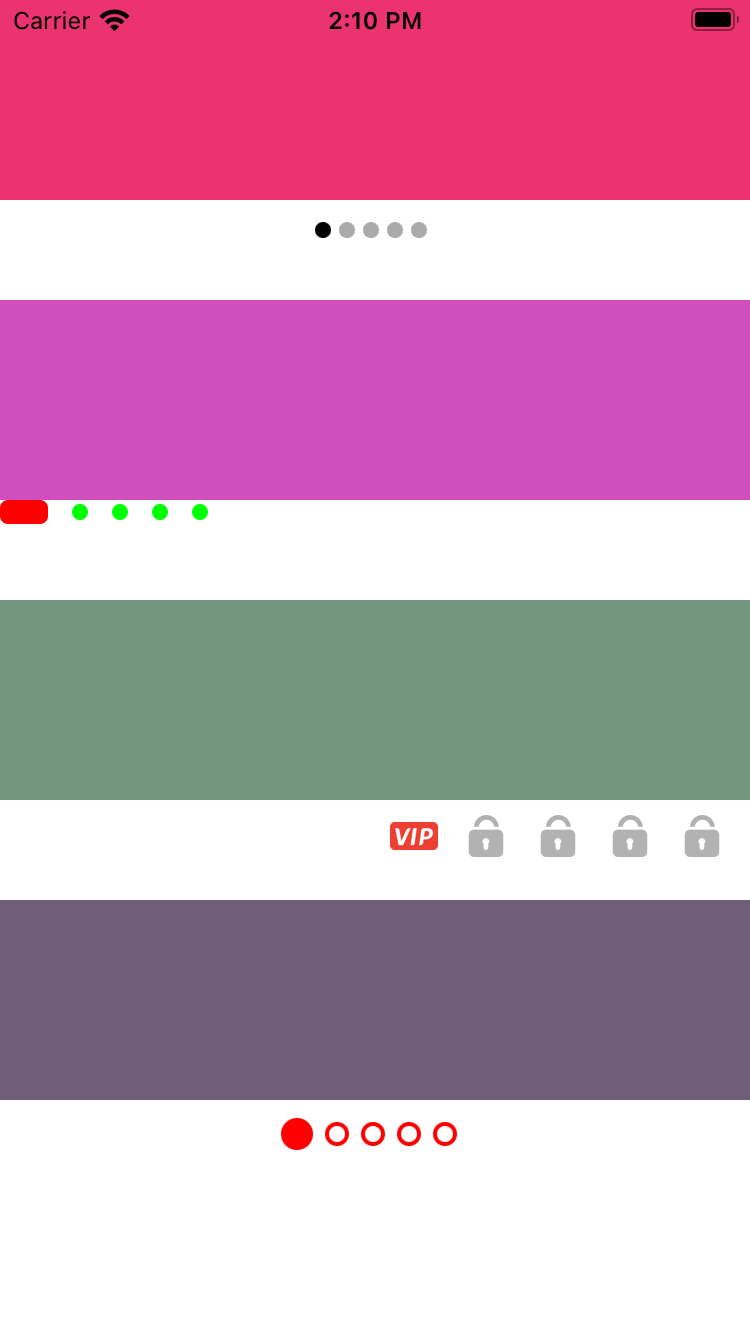
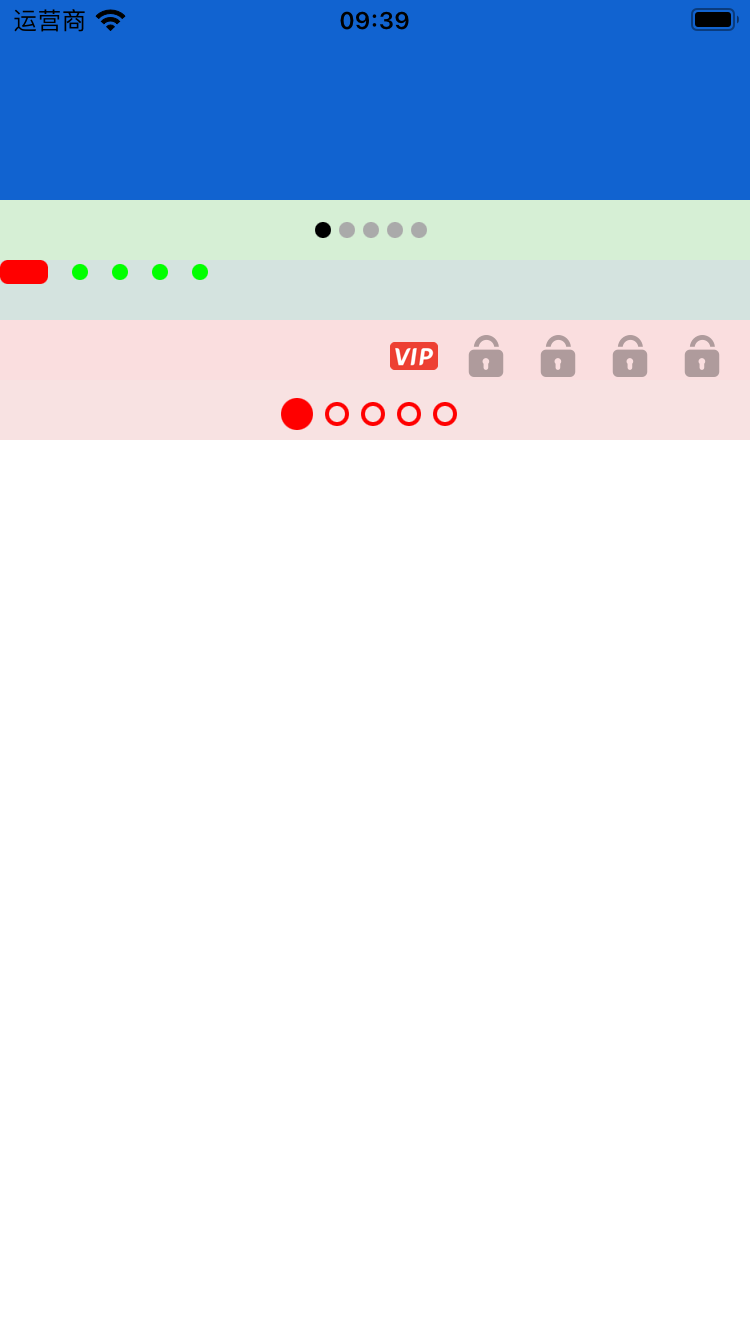
更换截图，修改样式示例

diff --git a/Example/SSnakePageControl/ViewController.swift b/Example/SSnakePageControl/ViewController.swift
@@ -16,23 +16,22 @@ class ViewController: UIViewController {
     private let numberOfPages: Int = 5
     private let pageH: CGFloat = 30
     
-    // MARK: - 默认
-    private lazy var scrollView1: UIScrollView = {
+    private lazy var scrollView: UIScrollView = {
         return setupScrollView(orginY: 0)
     }()
+    // MARK: - 默认
     private lazy var pageControl1: SSnakePageControl = {
         let v = SSnakePageControl(frame: CGRect(x: 0, y: (0 + height), width: width, height: pageH))
+        v.backgroundColor = UIColor.random.withAlphaComponent(0.2)
         let config = SSnakePageConfig()
         v.config = config
         v.numberOfPages = numberOfPages
         return v
     }()
     // MARK: - 长短不一，位置，颜色
-    private lazy var scrollView2: UIScrollView = {
-        return setupScrollView(orginY: 150)
-    }()
     private lazy var pageControl2: SSnakePageControl = {
-        let v = SSnakePageControl(frame: CGRect(x: 0, y: (150 + height), width: width, height: pageH))
+        let v = SSnakePageControl(frame: CGRect(x: 0, y: (pageH + height), width: width, height: pageH))
+        v.backgroundColor = UIColor.random.withAlphaComponent(0.2)
         var config = SSnakePageConfig()
         config.postionType = .leftTop
         config.currentSize = CGSize(width: 24, height: 12)
@@ -45,11 +44,9 @@ class ViewController: UIViewController {
         return v
     }()
     // MARK: - 图片
-    private lazy var scrollView3: UIScrollView = {
-        return setupScrollView(orginY: 300)
-    }()
     private lazy var pageControl3: SSnakePageControl = {
-        let v = SSnakePageControl(frame: CGRect(x: 0, y: (300 + height), width: width, height: pageH))
+        let v = SSnakePageControl(frame: CGRect(x: 0, y: (pageH * 2 + height), width: width, height: pageH))
+        v.backgroundColor = UIColor.random.withAlphaComponent(0.2)
         var config = SSnakePageConfig()
         config.normalColor = UIColor.clear
         config.normalImage = UIImage(named: "normal")
@@ -65,11 +62,10 @@ class ViewController: UIViewController {
         v.numberOfPages = numberOfPages
         return v
     }()
-    private lazy var scrollView4: UIScrollView = {
-        return setupScrollView(orginY: 450)
-    }()
+    // MARK: - border
     private lazy var pageControl4: SSnakePageControl = {
-        let v = SSnakePageControl(frame: CGRect(x: 0, y: (450 + height), width: width, height: pageH))
+        let v = SSnakePageControl(frame: CGRect(x: 0, y: (pageH * 3 + height), width: width, height: pageH))
+        v.backgroundColor = UIColor.random.withAlphaComponent(0.2)
         var config = SSnakePageConfig()
         config.postionType = .center
         config.normalSize = CGSize(width: 12, height: 12)
@@ -99,16 +95,11 @@ private extension ViewController {
     func setupUI() {
         view.backgroundColor = .white
         
-        view.addSubview(scrollView1)
+        view.addSubview(scrollView)
+        
         view.addSubview(pageControl1)
-        
-        view.addSubview(scrollView2)
         view.addSubview(pageControl2)
-        
-        view.addSubview(scrollView3)
         view.addSubview(pageControl3)
-        
-        view.addSubview(scrollView4)
         view.addSubview(pageControl4)
     }
     
@@ -132,19 +123,10 @@ extension ViewController: UIScrollViewDelegate {
     func scrollViewDidScroll(_ scrollView: UIScrollView) {
         let index = scrollView.contentOffset.x / scrollView.frame.size.width
         let showIndex = lroundf(Float(index))
-        
-        switch scrollView {
-            case scrollView1:
-                pageControl1.currentPage = showIndex
-            case scrollView2:
-                pageControl2.currentPage = showIndex
-            case scrollView3:
-                pageControl3.currentPage = showIndex
-            case scrollView4:
-                pageControl4.currentPage = showIndex
-            default:
-                break
-        }
+        pageControl1.currentPage = showIndex
+        pageControl2.currentPage = showIndex
+        pageControl3.currentPage = showIndex
+        pageControl4.currentPage = showIndex
     }
 }
 

diff --git a/README.md b/README.md
@@ -1,15 +1,29 @@
 # SSnakePageControl
 
-[![CI Status](https://img.shields.io/travis/m18201692330/SSnakePageControl.svg?style=flat)](https://travis-ci.org/m18201692330/SSnakePageControl)
 [![Version](https://img.shields.io/cocoapods/v/SSnakePageControl.svg?style=flat)](https://cocoapods.org/pods/SSnakePageControl)
 [![License](https://img.shields.io/cocoapods/l/SSnakePageControl.svg?style=flat)](https://cocoapods.org/pods/SSnakePageControl)
 [![Platform](https://img.shields.io/cocoapods/p/SSnakePageControl.svg?style=flat)](https://cocoapods.org/pods/SSnakePageControl)
 
+## 需求描述
+
+产品有各种各样的需求
+
+美术有各种各样的设计
+
+就还有各种各样的效果
+
+总是有各种各样的样式
+
+其他人的自定义样式不够，我就用最简单的方法写了一些。
+
+代码不像其他人那样简洁，但是足够简单。
+
+## 介绍
+直接看图
+
 ## Example
 
 To run the example project, clone the repo, and run `pod install` from the Example directory first.
-
-## Requirements
 
 ## Installation
 
@@ -22,7 +36,7 @@ pod 'SSnakePageControl'
 
 ## Author
 
-m18201692330, 5214444887@163.com
+🐍🐍🐍 SNAKE 🐍🐍🐍
 
 ## License
 
